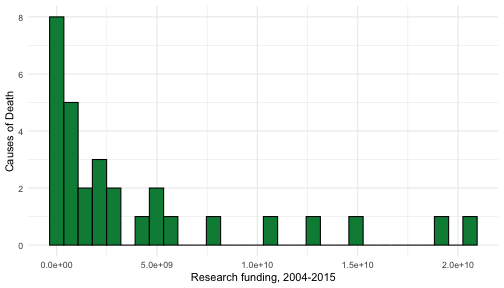
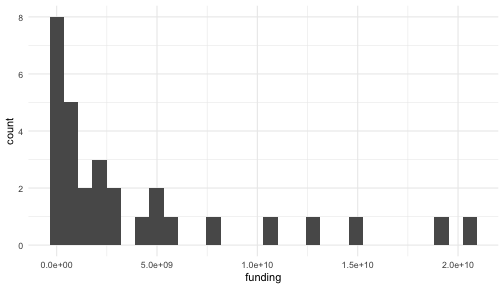
updates

Changed region(s): [[0.0893, 0.0312, 0.9524, 0.875], [0.3571, 0.9375, 0.6845, 1.0], [0.0, 0.3125, 0.0298, 0.5938]]

diff --git a/content/teaching/slides/rlab5-visualizations.html b/content/teaching/slides/rlab5-visualizations.html
@@ -24,7 +24,7 @@ class: center, middle, inverse, title-slide
 ### UGA | SPIA | PADP
 ]
 .date[
-### Last updated: February 12, 2026
+### Last updated: September 21, 2026
 ]
 
 ---
@@ -140,7 +140,7 @@ class: inverse, middle, center
 
 - Accessible, should need minimal written explanation
 
-- Don't distort perception
+- Don't distort perception or be clear when you do
 
 - Avoid uninformative decoration (chart junk)
 
@@ -188,9 +188,11 @@ class: inverse, middle, center
 ![:scale 70%](lectures_files/badstackbars.png)
 ]
 
-- Is type D greater in 2010 or 2011?
+--
 
-- Is type C greater in 2010 or 2011?
+- Is type D greater in 2013 or 2014?
+
+- Is type C greater in 2013 or 2014?
 
 - Dodged bar chart usually better
 
@@ -307,13 +309,15 @@ dataset %&gt;%
 ---
 # Grammar of graphics
 
-- Many options with ggplot; virtually impossible to memorize
+- Many options with ggplot; impossible to memorize
 
-- The autocomplete menu that pops up is very helpful
+- The autocomplete menu in RStudio is helpful for showing what you can do
 
 - Can result in long chunks of code
 
 - But easy to reproduce graphs and copy code from previous graphs to use on different data
+
+- Once you learn the basics, great use case for AI to add formatting
 
 ---
 # Some common options
@@ -441,6 +445,8 @@ nhanes %&gt;%
   theme_minimal()
 ```
 
+- `guide = "none"` suppresses a legend for each color
+
 ---
 # Gun use in the US
 
@@ -453,7 +459,7 @@ nhanes %&gt;%
 nhanes %&gt;% 
   drop_na(gun.use) %&gt;% 
   ggplot(aes(x = gun.use, 
-*            y = after_stat(100*(count)/sum(count)),
+*            y = after_stat(count/sum(count)*100),
              fill = gun.use)) +
   geom_bar() +
   scale_fill_manual(values = c('grey', 'steelblue'), guide = "none") +
@@ -485,31 +491,41 @@ class: inverse, middle, center
 ---
 # COD research funding
 
-&gt; **Try to create the following graph (color need not match)**
+&gt; **Create the following graph**
 
 ![](rlab5-visualizations_files/figure-html/unnamed-chunk-23-1.png)&lt;!-- --&gt;
+
+- What does the height of each bar represent?
 
 ---
 # Adjusting bins or binwidth
 
 - RStudio sometimes suggests we adjust `bins` or `binwidth`
 
-- Default is 30 bins. This is too many for 30 observations.
+- Default is 30 bins. We only have 30 observations so R, uses fewer.
 
-&gt; **Let's adjust the number of bins to 10**
+- Adjust number of bins when variable is continuous with many values
+
+- Adjust binwidth when variable is discrete
 
 ---
-# Adjusting bins or binwidth
+# Adjusting bins or binwidth and color
+
+&gt; **Adjust the number of bins to 5. Add color and labels.**
 
 
 ``` r
 cod_research_funding %&gt;% 
   ggplot(aes(x = funding)) +
-* geom_histogram(bins = 10,
+* geom_histogram(bins = 5,
                  fill = 'springgreen4', color = 'black') +
   labs(y = 'Causes of Death', x = 'Research funding, 2004-2015') +
   theme_minimal()
 ```
+
+- Note the loss in precision as we decrease number of bins. Might not be ideal.
+
+- `color` controls the outline of each bar
 
 ---
 # Dealing with large values
@@ -557,6 +573,15 @@ options(scipen = 999)
 ![](rlab5-visualizations_files/figure-html/unnamed-chunk-28-1.png)&lt;!-- --&gt;
 
 ---
+# Remove elements of an axis
+
+- Great question for google or AI, let me check what google gives us
+
+- **Add `theme(axis.text.y  = element_blank())` to the end of your code. Don't forget to add another `+`**
+
+
+
+---
 class: inverse, middle, center
 
 # Graphing Two Variables
@@ -585,7 +610,7 @@ class: inverse, middle, center
 
 &gt; **Try changing the code to produce a graph with respondent's sex along the x axis**
 
-![](rlab5-visualizations_files/figure-html/unnamed-chunk-29-1.png)&lt;!-- --&gt;
+![](rlab5-visualizations_files/figure-html/unnamed-chunk-30-1.png)&lt;!-- --&gt;
 
 ---
 # Grouped/dodged bar chart
@@ -599,7 +624,7 @@ class: inverse, middle, center
 ---
 # Grouped/dodged bar chart
 
-![](rlab5-visualizations_files/figure-html/unnamed-chunk-30-1.png)&lt;!-- --&gt;
+![](rlab5-visualizations_files/figure-html/unnamed-chunk-31-1.png)&lt;!-- --&gt;
 
 - Note percentages add to 100 across all respondents, not within each sex
 
@@ -641,7 +666,7 @@ fbi_gun_deaths %&gt;%
 ---
 # Barchart by category
 
-![](rlab5-visualizations_files/figure-html/unnamed-chunk-32-1.png)&lt;!-- --&gt;
+![](rlab5-visualizations_files/figure-html/unnamed-chunk-33-1.png)&lt;!-- --&gt;
 
 - Can fill each bar with different color, add labels, and change theme just like before
 
@@ -657,7 +682,7 @@ fbi_gun_deaths %&gt;%
 ---
 # Barchart by category
 
-![](rlab5-visualizations_files/figure-html/unnamed-chunk-33-1.png)&lt;!-- --&gt;
+![](rlab5-visualizations_files/figure-html/unnamed-chunk-34-1.png)&lt;!-- --&gt;
 
 ---
 # Boxplots by category
@@ -675,7 +700,7 @@ fbi_gun_deaths %&gt;%
 ---
 # Boxplots by category
 
-![](rlab5-visualizations_files/figure-html/unnamed-chunk-34-1.png)&lt;!-- --&gt;
+![](rlab5-visualizations_files/figure-html/unnamed-chunk-35-1.png)&lt;!-- --&gt;
 
 ---
 # Scatterplot
